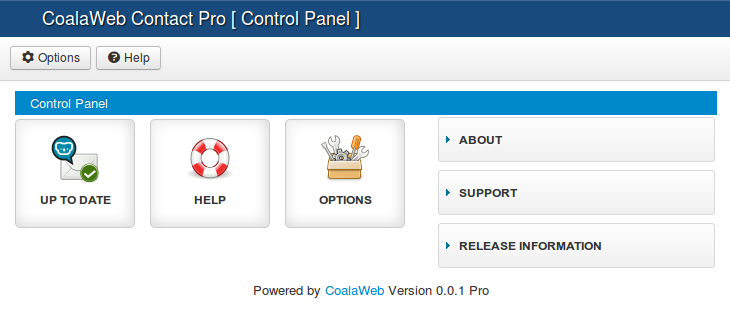
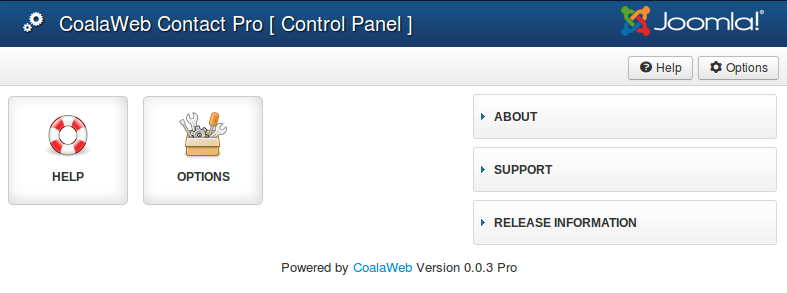
Updated Contact guide for up coming release.

diff --git a/docs/joomla/extensions/contact/guide.md b/docs/joomla/extensions/contact/guide.md
@@ -1,14 +1,14 @@
-## Table of Contents {#toc}
+## Table of Contents
 1.  [Component Guide](#component-guide)
     -   [Control Panel](#control-panel)
     -   [One Click Updates](#updates)
     -   [Inbuilt Help](#help)
     -   [Extension Options](#options)
         - [1. General Contact Options](#options-general)
-        - [2. Messages and Warnings](#options-messages)
-        - [3. Labels](#options-labels)
-        - [4. Captcha Options](#options-captcha)
-        - [5. Live Update Options](#options-updates)
+        - [2. Custom Fields](#options-custom)
+        - [3. Messages and Warnings](#options-messages)
+        - [4. Labels](#options-labels)
+        - [5. Captcha Options](#options-captcha)
         - [6. Where Is My Download ID \[Pro\]](#options-downloadid)
         - [7. Component Permissions](#options-permissions)
 2.  [Contact Module Guide](#module)
@@ -21,68 +21,51 @@
     -   [Editor XTD Plugin - Contact](#plg-xtd)
 4.  [Need More Help?](#more-help)
 
-##Component {#component-guide}
-### Control Panel {#control-panel}
+## <a name="component-guide"></a>Component
+### <a name="control-panel"></a>Control Panel
 
-The **Control Panel** as seen below is designed to be an easy starting
-point, think of it as the head quarters for the extension. While
-carrying out tasks you can easily jump from the **Control Panel** to the
-different sections and then return before moving onto the next one.
-*[Figure-1]*
+The **Control Panel** as seen below is designed to be an easy starting point, think of it as the head quarters for the extension. While carrying out tasks you can easily jump from the **Control Panel** to the different sections and then return before moving onto the next one. *\[Figure-1\]*
 
 ![Figure-1](images/docs/joomla/extensions/contact/cw-contact-cpanel.png "Figure-1"){.coalaweb-docs}
 
-### Inbuilt Help {#help}
+### <a name="help"></a>Inbuilt Help
 
-In the control panel or the tool menu you have a help icon that when
-clicked will open a pop up wrapper of this specific guide. This gives
-you an easy way of checking the functionality of a particular item with
-out leaving the control panel. *[Figure-2]*
+In the control panel or the tool menu you have a help icon that when clicked will open a pop up wrapper of this specific guide. This gives you an easy way of checking the functionality of a particular item with out leaving the control panel. *\[Figure-2\]*
 
 ![Figure-2](images/docs/joomla/extensions/contact/cw-contact-help.png "Figure-2"){.coalaweb-docs}
 
-### One Click Updates {#updates}
+### <a name="options"></a>Extension Options
 
-#### Coming Soon!
+In the control panel or the tool menu you have an options icon that when clicked will open a new window containing the various extension options.
 
-### Extension Options {#options}
-
-In the control panel or the tool menu you have a options icon that when
-clicked will open a pop up containing the various extension options.
-
-#### 1. General Contact Options {#options-general}
+### 1.<a name="options-general"></a>General Options
 
 <span class="tip" markdown="1">The options below will influence the Content Plugin [Pro] and the
 Contact Module unless overridden in the module configuration.</span>
 
-To make it easier to follow I have broken up the General settings into
-three parts.
+To make it easier to follow I have broken up the General settings into three parts.
 
 #### Part 1
 
 The first thing that will need to be filled in is the **Recipient
 Email** without this the system will display an error message. If you
-have purchased a Pro subscription you will also have two optional fields
-avaliable a CC Email and a BCC email. Next you have a **Default
+have purchased a Pro subscription you will also have two additional fields
+a CC Email and a BCC email. Next you have a **Default
 Subject** option this will display in the email subject followed by the
-submitters subject if you have chosen to display this option. Lastly you
+submitters subject if you have chosen to display this option. Next is the **Mail From** option where you can choose to have the email sent by the **Contact Form User** or by the **Joomla Mail Settings**. In some cases you have will have to use the **Joomla Mail Settings** for the system to work correctly due to hosting or service provider restrictions. Next you
 have an option to chose the format you wish the emails to be sent in. If
 you are using the core version you will only have the **No HTML** option
 but for Pro users you will have two additional options of **Basic HTML**
-and **Rich HTML**. *[Figure-3]*
+and **Rich HTML**. The last option in Part1 is **Redirection** after the mail has been successfully sent. The **Core** version gives you two options the first one is to return to the **Same Page** that the form was submitted on while the second one will return the user to the **Home Page** of your website. The **Pro** version has an additional **Cutom URL** option that if chosen will redirect the user to the URL entered in the following **Custom URL** field. *\[Figure-3\]*
 
 ![Figure-3](images/docs/joomla/extensions/contact/cw-contact-config-general1.png "Figure-3"){.coalaweb-docs}
 
 #### Part 2
 
-Next we have some **Field Display** options that will affect what and
-how items are displayed within the contact form. Firstly you have the
-option to display a **Name** or **Subject** input field and if they
-should be required fields. Next you can chose to display a **Copy Me**
-field allowing users to receive a copy of the form when they submit it.
-The last two options are for the **Pro** subscribers and they allow you
-to set and display the **Character Limit** for the message field of the
-form. *[Figure-4]*
+Next we have some **Field Display** options that will affect what and how items are displayed within the contact form. Firstly you have the option to turn on or off the display of the following fields **Name**, **Subject** and **Message** and also if they are required. If you are using the **Pro** version you will also have two more options a **Date From** and **Date To** these will display **Calendar** input fields in the form. If you have chosen to display either of date input fields you can also chose the date format to be used. The avaliable options coincide with Joomla's standard types such as **LC3**. The **Display Format** option will display an example of the currently acceptable format under the date fields which is handy when JavaScript is turned off on the users computer so they can still input the date manually using the correct format. 
+
+The next option gives **Pro** users the ability to display a **Terms of Service** input field that can also be set to required. If you want to display the **TOS**  you will also need to enter an article **ID** in the **TOS Article ID** this is the article that will be displayed in a popup window so users can read before agreeing. Next you can chose to display a **Copy Me** field allowing users to receive a copy of the form when they submit it. The last two options are for the **Pro** subscribers and they allow you
+to set and display the **Character Limit** for the message field of the form. If displayed the **Character Limit** will count down as text is entered into the message field. *\[Figure-4\]*
 
 ![Figure-4](images/docs/joomla/extensions/contact/cw-contact-config-general2.png "Figure-4"){.coalaweb-docs}
 
@@ -110,28 +93,34 @@ option while the **Pro** subscribers get 6 color options as well. The
 last two options allow you to choose the text to be displayed on the
 **Submit** button at the bottom of the contact form and for the **Pro**
 users the button displayed at the bottom of the editor window allowing
-you to insert a form into your content. *[Figure-5]*
+you to insert a form into your content. *\[Figure-5\]*
 
 ![Figure-5](images/docs/joomla/extensions/contact/cw-contact-config-general3.png "Figure-5"){.coalaweb-docs}
 
-#### 2. Messages and Warnings {#options-messages}
+### 2.<a name="options-custom"></a>Custom Fields
+
+In this section you can setup one custom field for **Core** users or up to three for **Pro** users. For each filed you have several options the first one is if you want to display it at all. The next option is what text you want used as the form field **Label**. Next you can chose the **Hint** that will be displayed in the form field when empty. The last option is the message that will be displayed if you have set the custom field to **Required** and the user doesn't fill it in. *\[Figure-5b\]*
+
+![Figure-5b](images/docs/joomla/extensions/contact/cw-contact-config-custom1.png "Figure-5b"){.coalaweb-docs}
+
+### 3.<a name="options-messages"></a>Messages and Warnings
 
 The next tab allows you to customize the **Messages and Warnings**
 displayed by the CoalaWeb Contact extension. Note: If your site is
-multilingual leave blank and use the language files. *[Figure-6]*
+multilingual leave blank and use the language files. *\[Figure-6\]*
 
 ![Figure-6](images/docs/joomla/extensions/contact/cw-contact-config-messages.png "Figure-6"){.coalaweb-docs}
 
-#### 3. Labels {#options-labels}
+### 4.<a name="options-labels"></a>Labels
 
 The next tab allows you to customize the **Labels** displayed by the
 CoalaWeb Contact extension both in the forms and the sent e-mail. Note:
 If your site is multilingual leave blank and use the language files.
-*[Figure-7]*
+*\[Figure-7\]*
 
 ![Figure-7](images/docs/joomla/extensions/contact/cw-contact-config-labels.png "Figure-7"){.coalaweb-docs}
 
-#### 4. Captcha {#options-captcha}
+### 5.<a name="options-captcha"></a>Captcha
 
 The next tab allows you to display a **Captcha** to attempt to reduce
 pesky spam. Lets start with the options that apply to both the **Core**
@@ -155,7 +144,7 @@ allowing the form to be submitted. The default question is:
 Feel free to choose a question and answer but try to aim for a good
 balance between difficult to answer for a spam bot while not too
 annoying for a real user. Note: If your site is multilingual leave blank
-and use the language files. *[Figure-8]*
+and use the language files. *\[Figure-8\]*
 
 ![Figure-8](images/docs/joomla/extensions/contact/cw-contact-config-captcha1.png "Figure-8"){.coalaweb-docs}
 
@@ -165,8 +154,7 @@ For the Pro subscribers you get two additional Captcha options.
 
 This is a math question and answer type Captcha here you have the option
 to choose some custom text both before and after the question. Note: If
-your site is multilingual leave blank and use the language files.
-*[Figure 9]*
+your site is multilingual leave blank and use the language files. *\[Figure 9\]*
 
 #### ReCaptcha
 
@@ -182,44 +170,43 @@ To get started grab your Public and Private keys by signing in with your
 Google account (create an account if you don't have one) here: [Create a
 reCAPTCHA key](https://www.google.com/recaptcha/admin/create). Once you
 have an account register your website domain, and Google will provide
-you with your ReCaptcha keys. *[Figure-9]*
+you with your ReCaptcha keys. *\[Figure-9\]*
 
 ![Figure-9](images/docs/joomla/extensions/contact/cw-contact-config-captcha2.png "Figure-9"){.coalaweb-docs}
 
-#### 5. Live Update Options {#options-updates}
+### 6.<a name="options-updates"></a>Update Options
 
-The CoalaWeb Contact extension comes with a built in one click **Live
-Update** system so both **Core** and **Pro** users can keep their
+The CoalaWeb Social Links extension integrates with the inbuilt
+**Joomla Update** system so both **Core** and **Pro** users can keep their
 extension up to date. For the **Pro** users you will have to copy and
 paste your **Download ID** into this field to allow the update system to
 work. Once you have added your **Download ID** the message displayed in
 the **Control Panel** will disappear. If you try to update and it fails
-make sure you still have a valid subscription and the **ID** is correct.
-*[Figure-10]*
+make sure you still have a valid subscription and the **ID** is correct. *\[Figure-10\]*
 
 ![Figure-10](images/docs/joomla/extensions/contact/cw-contact-config-updates.png "Figure-10"){.coalaweb-docs}
 
-#### 6. Where Is My Download ID [Pro] {#options-downloadid}
+### 7.<a name="options-downloadid"></a>Where Is My Download ID \[Pro Version\]
 
 To find your **Download ID** log into **coalaweb.com** and from the top
 menu select **Members → My Subscriptions** scroll down and under **My
 Subscriptions** there is a Module called **Download ID** now copy the
 code and paste it back in your component configuration making sure not
-to include any spaces. *[Figure-11]*
+to include any spaces. *\[Figure-11\]*
 
 ![Figure-11](images/docs/joomla/extensions/contact/coalaweb-download-id.png "Figure-11"){.coalaweb-docs}
 
-#### 7. Component Permissions {#options-permissions}
+### 8.<a name="options-permissions"></a>Component Permissions
 
 The last tab contains the permission settings for the CoalaWeb Contact
-component. *[Figure-12]*
+component. *\[Figure-12\]*
 
 ![Figure-12](images/docs/joomla/extensions/contact/cw-contact-config-permissions.png "Figure-12"){.coalaweb-docs}
 
-## Contact Module {#module}
+##<a name="module">Contact Module
 ![Module-Demo](images/docs/joomla/extensions/contact/cw-contact-module-themes.png "Module-Demo"){.coalaweb-docs}
 
-### General Display Options {#mod-general}
+### <a name="mod-general">General Display Options
 
 The options below will overridden the component configuration.
 
@@ -234,7 +221,7 @@ have purchased a Pro subscription you will also have two more fields
 avaliable a CC Email and a BCC email option fill these in as necessary.
 Next you have a **Default Subject** option this will display in the
 email subject followed by the submitters subject if you have chosen to
-display this option. *[Figure-13]*
+display this option. *\[Figure-13\]*
 
 ![Figure-13](images/docs/joomla/extensions/contact/cw-contact-mod-config-general1.png "Figure-13"){.coalaweb-docs}
 
@@ -247,7 +234,7 @@ chose to have it as a required field. Next you can chose to display a
 Copy Me field allowing users to receive a copy of the form when they
 submit it. The last two option are for the **Pro** subscribers and they
 allow you to set and display the Character Limit for the message field
-of the form. *[Figure-14]*
+of the form. *\[Figure-14\]*
 
 ![Figure-14](images/docs/joomla/extensions/contact/cw-contact-mod-config-general2.png "Figure-14"){.coalaweb-docs}
 
@@ -273,11 +260,11 @@ subscribers get 6 color options as well. The last two options allow you
 to choose the text to be displayed on the **Submit** button at the
 bottom of the contact form and for the **Pro** users the button
 displayed at the bottom of the editor window allowing you to insert a
-form into your content. *[Figure-15]*
+form into your content. *\[Figure-15\]*
 
 ![Figure-15](images/docs/joomla/extensions/contact/cw-contact-mod-config-general3.png "Figure-15"){.coalaweb-docs}
 
-### Captcha {#mod-captcha}
+### <a name="mod-captcha">Captcha
 
 The next options group allows you to display a **Captcha** to attempt to
 reduce pesky spam. Lets start with the options that apply to both the
@@ -301,7 +288,7 @@ The default question is:
 Feel free to chose a question and answer but try to aim for a good
 balance between difficult to answer for a spam bot while not too
 annoying for a real user. Note: If your site is multilingual leave blank
-and use the language files. *[Figure-16]*
+and use the language files. *\[Figure-16\]*
 
 ![Figure-16](images/docs/joomla/extensions/contact/cw-contact-mod-config-captcha1.png "Figure-16"){.coalaweb-docs}
 
@@ -311,8 +298,7 @@ For the Pro subscribers you get two additional Captcha options.
 
 This is a math question and answer type Captcha here you have the option
 to chose some custom text both before and after the question. Note: If
-your site is multilingual leave blank and use the language files.
-*[Figure-17]*
+your site is multilingual leave blank and use the language files. *\[Figure-17\]*
 
 ![Figure-17](images/docs/joomla/extensions/contact/cw-contact-mod-config-captcha2.png "Figure-17"){.coalaweb-docs}
 
@@ -325,9 +311,9 @@ implement it if one becomes avaliable.</span>
 You also get the option to use ReCaptcha which will require you to Copy
 and paste your Public and Private keys into the component configuration
 as well as choosing the theme you wish to use also in the component
-configuration. *[Figure 9]*
+configuration. *\[Figure 9\]*
 
-### Advanced Options {#mod-advanced}
+### <a name="mod-advanced">Advanced Options
 
 The CoalaWeb Contact module also has a few of what I consider **Advanced
 Options** such as the option to assign a **Unique Module ID** to stop
@@ -335,19 +321,19 @@ conflicts, a **Module Class Suffix** and whether to use **Cache**
 including the **Cache Time**. The last option is whether to display a
 **Link Back to CoalaWeb** as always it's appreciated but its up to you
 plus you can choose what text to display next to the link. Note: If your
-site is multilingual leave blank and use the language files. *[Figure-18]*
+site is multilingual leave blank and use the language files. *\[Figure-18\]*
 
 ![Figure-18](images/docs/joomla/extensions/contact/cw-contact-mod-config-advanced.png "Figure-18"){.coalaweb-docs}
 
-### Release Information {#mod-release}
+### <a name="mod-release">Release Information
 
 In this section you can find out information about the currently installed extension
-such as **Type**, **Version** and **Release Date**. *[Figure-19]*
+such as **Type**, **Version** and **Release Date**. *\[Figure-19\]*
 
 ![Figure-19](images/docs/joomla/extensions/contact/cw-contact-mod-config-r-info.png "Figure-19"){.coalaweb-docs}
 
-##Plugins [PRO Version Only] {#plg}
-### Content Plugin - Contact {#plg-content}
+## <a name="plg">Plugins \[PRO Version Only\]
+### <a name="plg-content">Content Plugin - Contact
 
 The CoalaWeb Contact plugin gives you even more flexibility by allowing
 you to place one or more contact forms anywhere within your content. All
@@ -359,7 +345,7 @@ configuration options.
 
 ![Content-PLG-Demo](images/docs/joomla/extensions/contact/cw-contact-plg-content.png "Content-PLG-Demo"){.coalaweb-docs}
 
-### Editor XTD Plugin - Contact {#plg-xtd}
+### <a name="plg-xtd">Editor XTD Plugin - Contact
 
 The **Editor XTD** plugin makes adding a contact form to your Joomla
 content a one click process. Just place the cursor where you want the
@@ -368,7 +354,7 @@ displayed at the bottom of the editor.
 
 ![XTD-PLG-Button](images/docs/joomla/extensions/contact/cw-contact-plg-btn.png "XTD-PLG-Button"){.coalaweb-docs}
 
-### Need more help? - [Back to Top](#toc){#more-help}
+### <a name="more-help">Need more help?
 
 <span class="tip" markdown="1">Do you have a question that wasn't covered by the GUIDE? Try the [FAQ](/support-menu/documentation/item/coalaweb-social-links-faq).</span>
 <span class="tip" markdown="1">Do you have a question that wasn't covered by the GUIDE or the FAQ? Then it's time to drop by the [Forum](forum/coalaweb-social-links) I'm sure we can help.<span>

diff --git a/docs/joomla/extensions/social/guide.md b/docs/joomla/extensions/social/guide.md
@@ -77,7 +77,7 @@ out leaving the control panel. *\[Figure-2\]*
 
 ### <a name="options"></a>Extension Options
 
-<span class="info" markdown="1">In the control panel or the tool menu you have a options icon that when clicked will open a pop up containing the various extension options.</span>
+<span class="info" markdown="1">In the control panel or the tool menu you have an options icon that when clicked will open a new window containing the various extension options.</span>
 
 ### 1. <a name="options-general"></a>General Options \[Pro Version\]
 
